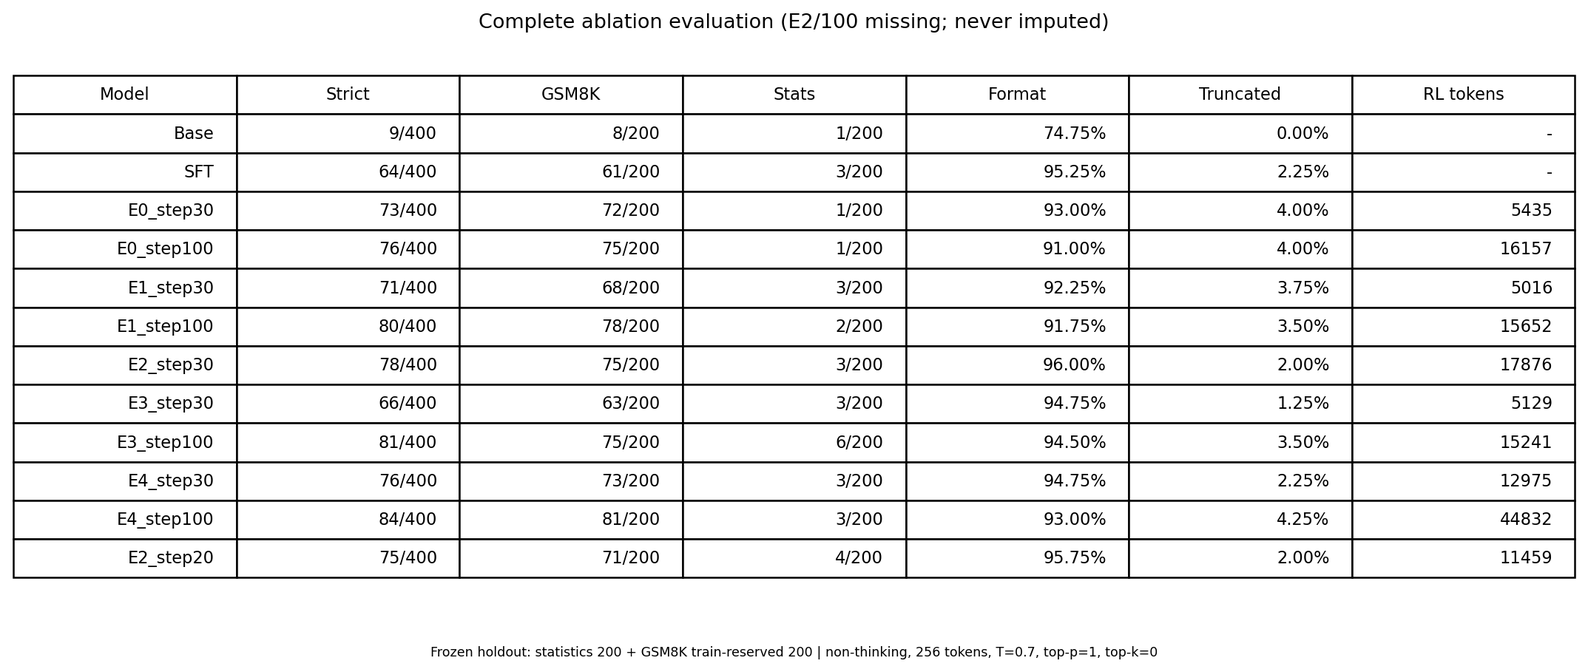
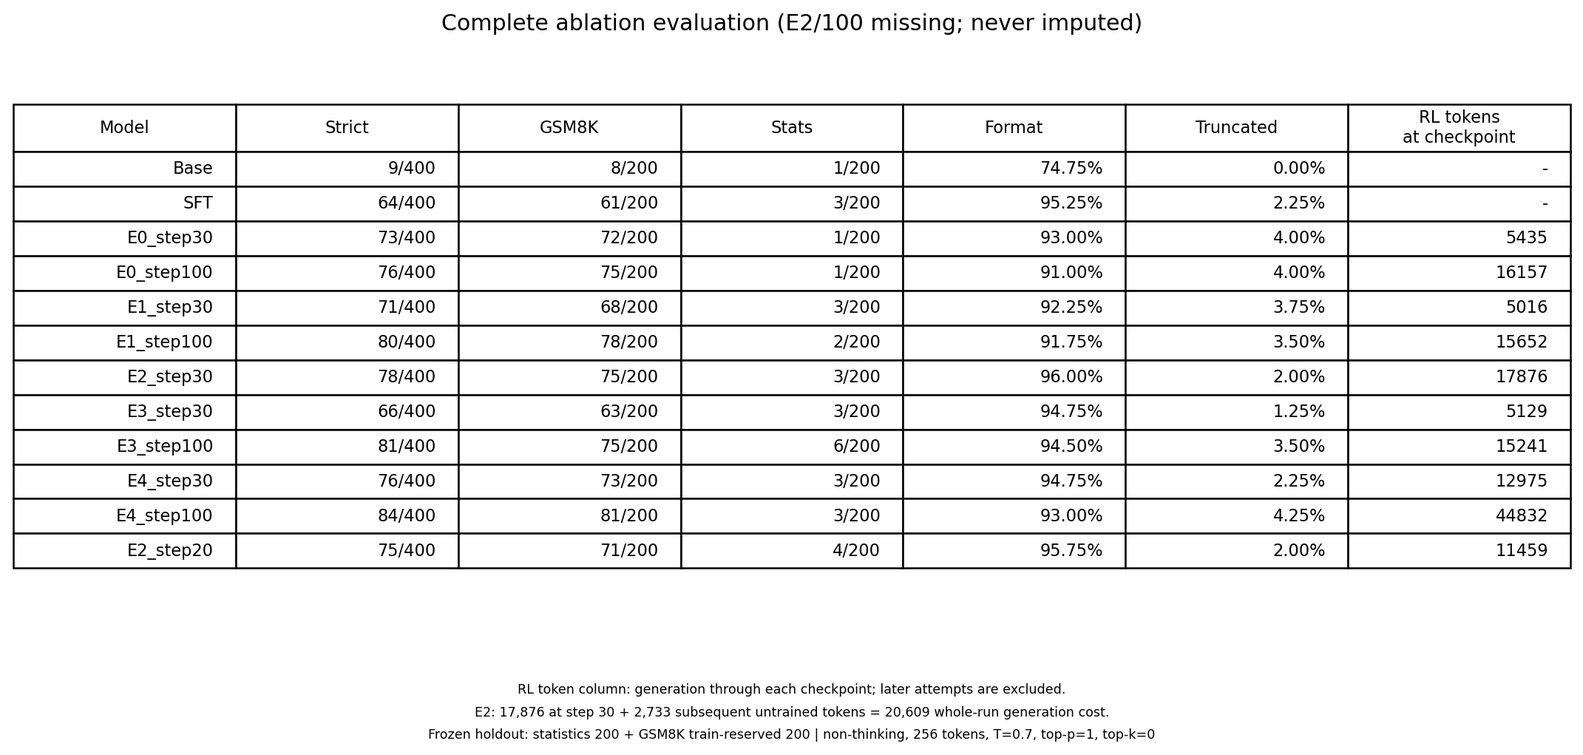
Clarify experiment docs and token cost accounting

Changed region(s): [[0.0, 0.0924, 1.0, 0.8625], [0.2774, 0.8933, 0.7398, 0.9857], [0.2774, 0.0, 0.709, 0.0616]]

diff --git a/scripts/27_finalize_ablation_report.py b/scripts/27_finalize_ablation_report.py
@@ -49,6 +49,50 @@ def model_table(result):
     return rows
 
 
+def make_summary_figure(result, destination):
+    """Render saved results with explicit checkpoint-versus-whole-run token cost."""
+    import matplotlib
+    matplotlib.use('Agg')
+    import matplotlib.pyplot as plt
+
+    destination.mkdir(parents=True, exist_ok=True)
+    fig, ax = plt.subplots(figsize=(12, 5.7))
+    ax.axis('off')
+    content = []
+    for name in result['models']:
+        metric = result['metrics'][name]
+        content.append([
+            name, str(metric['strict_correct_count']) + '/400',
+            str(metric['by_source']['openai/gsm8k']['strict_correct_count']) + '/200',
+            str(metric['by_source']['statreason_synthetic']['strict_correct_count']) + '/200',
+            percentage(metric['format_valid_rate']), percentage(metric['truncation_rate']),
+            str(result['models'][name].get('training_generated_tokens', '-')),
+        ])
+    table = ax.table(cellText=content,
+                     colLabels=['Model', 'Strict', 'GSM8K', 'Stats', 'Format', 'Truncated',
+                                'RL tokens\nat checkpoint'], loc='center')
+    table.auto_set_font_size(False)
+    table.set_fontsize(9)
+    table.scale(1, 1.55)
+    for column in range(7):
+        table[0, column].set_height(table[0, column].get_height() * 1.35)
+    ax.set_title('Complete ablation evaluation (E2/100 missing; never imputed)')
+    checkpoint_tokens = result['models']['E2_step30']['training_generated_tokens']
+    whole_run_tokens = result['training']['rows']['E2']['total_generated_tokens']
+    tail_tokens = whole_run_tokens - checkpoint_tokens
+    fig.text(.5, .075, 'RL token column: generation through each checkpoint; later attempts are excluded.',
+             ha='center', fontsize=7)
+    fig.text(.5, .045,
+             f'E2: {checkpoint_tokens:,} at step 30 + {tail_tokens:,} subsequent untrained tokens '
+             f'= {whole_run_tokens:,} whole-run generation cost.', ha='center', fontsize=7)
+    fig.text(.5, .015, EVAL_NOTE, ha='center', fontsize=7)
+    fig.tight_layout(rect=[0, .13, 1, 1])
+    path = destination / '09_ablation_summary.png'
+    fig.savefig(path, dpi=180, bbox_inches='tight')
+    plt.close(fig)
+    return path
+
+
 def make_figures(result, destination):
     import matplotlib
     matplotlib.use('Agg')
@@ -161,18 +205,7 @@ def make_figures(result, destination):
         ax.grid(axis='y', alpha=.2)
     save(fig, '08_generation_cost.png')
 
-    fig, ax = plt.subplots(figsize=(12, 5))
-    ax.axis('off')
-    content = []
-    for name in names:
-        p = result['metrics'][name]
-        content.append([name, str(p['strict_correct_count'])+'/400', str(p['by_source']['openai/gsm8k']['strict_correct_count'])+'/200',
-                        str(p['by_source']['statreason_synthetic']['strict_correct_count'])+'/200', percentage(p['format_valid_rate']),
-                        percentage(p['truncation_rate']), str(result['models'][name].get('training_generated_tokens', '-'))])
-    table = ax.table(cellText=content, colLabels=['Model', 'Strict', 'GSM8K', 'Stats', 'Format', 'Truncated', 'RL tokens'], loc='center')
-    table.auto_set_font_size(False); table.set_fontsize(9); table.scale(1, 1.55)
-    ax.set_title('Complete ablation evaluation (E2/100 missing; never imputed)')
-    save(fig, '09_ablation_summary.png', EVAL_NOTE)
+    files.append(make_summary_figure(result, destination))
 
     fig, grid = plt.subplots(2, 2, figsize=(10, 7))
     axes = grid.reshape(-1)
@@ -218,7 +251,7 @@ def write_report(root, result, charts):
          'mcnemar_p': c['mcnemar_exact_two_sided_p'], 'mcnemar_holm_p': c['mcnemar_holm_adjusted_p']}
         for key, c in comparisons.items()])
     lines = ['# StatReason-RL：GRPO/DAPO受控机制实验报告', '',
-             '最终路线：B级机制分析型（预算受限适配）。在真实训练、统一判题与完整结果校验通过后形成结论；不宣称复现论文规模或证明DAPO显著优于GRPO。', '',
+             '本文报告预算受限条件下的GRPO/DAPO受控机制实验。结论基于真实训练、统一判题和完整结果校验，不宣称复现论文规模或证明DAPO显著优于GRPO。', '',
              '## 模型、数据与方法', '',
              'Qwen3-0.6B，BF16/SDPA，RTX 5060 Laptop 8GB。LoRA r=8、alpha=16，q/k/v/o四类投影，共224个可训练张量、2,293,760参数。共用同一个SFT适配器（SFT运行300步，验证loss选择150步），RL池400题：GSM300、统计100。', '',
              '基于TRL 0.23.1集成Rollout、裁剪与损失，项目实现奖励、独立SFT参考、在线补采、长度整形、数学审计和统计分析；不是从零手写整个Trainer。每组独立初始化，G=4、旧概率复用2次、LR=1e-5、beta=0.04、种子42。E0显式loss_type=grpo；E1上裁剪0.28；E2在线筛选；E3 token损失；E4四机制组合。E4保留共同KL，区别于论文去KL的完整配方。', '',
@@ -250,16 +283,18 @@ def write_report(root, result, charts):
               '## 正确性与错误案例', '',
               f"重新严格判题全部{result['prediction_count']}条评测回答，与保存结果一致；200道统计标准答案独立计算通过，最大绝对误差{result['gold_audit']['max_absolute_recompute_error']:.3g}。这不代表所有GSM答案都经独立人工证明。", '',
               '代表性错误包括：指标变量方差没有正确代入p(1-p)；相关样本均值标准误遗漏或错算协方差；将条件独立误当成无条件独立的贝叶斯题。对应原文保存在error_cases.jsonl。高格式有效率与极低统计正确率同时出现，说明本轮领域推理缺陷没有解决；不会通过放宽容差、删除难题或继续使用测试集调参修饰结果。', '',
-              '## 图表', '']
+              '## 图表', '',
+              f"汇总图09的RL Token列以及ablation_summary.csv的training_generated_tokens_at_checkpoint列均统计截至各检查点的累计生成量；成本图08与上文总成本表统计完整运行。E2第30步检查点为{result['models']['E2_step30']['training_generated_tokens']:,} Token，停止前额外补采{tr['E2']['total_generated_tokens']-result['models']['E2_step30']['training_generated_tokens']:,} Token未进入新更新，完整运行合计{tr['E2']['total_generated_tokens']:,} Token。", '']
     for path in charts:
         lines += [f'![{path.stem}](figures/{path.name})', '']
     lines += ['图中直接显示原始更新序列，没有挑选有利区间；奖励每两次更新共用一组样本。准确率图从0开始，显示完整0–100%范围和Wilson区间。E2曲线在30步结束，不延长或补造至100步。', '',
-              '## 复现与交付', '', '```powershell',
+              '## 复现与公开产物', '',
+              '公开仓库提供代码、配置、依赖、测试、报告、CSV、结果JSON、图表和少量错误样例。完整原始回答、训练审计、冻结计划、处理后数据及模型/适配器检查点保存在本地，未随仓库分发。阅读公开结果无需模型；以下命令仅适用于已具备完整本地实验产物的环境。重新审计不能仅依赖结果JSON，具体前置条件见[运行指南](../../docs/training_guide.md)。', '', '```powershell',
               '.venv\\Scripts\\python.exe scripts/24_run_ablations.py --status',
               '.venv\\Scripts\\python.exe scripts/26_evaluate_ablations.py --execute',
               '.venv\\Scripts\\python.exe scripts/27_finalize_ablation_report.py', '```', '',
-              '原始数据、配置、检查点哈希、代码快照、逐题回答、采样成本与资源记录保留。报告、CSV、PNG和校验清单来自这些记录。没有使用付费GPU，没有推送GitHub。简历优先采用机制分析版本，见docs/resume_materials.md；架构、公式与20个面试问题见docs/interview_guide.md。', '',
-              '本轮停止扩展训练，完成预算受限B级机制分析；后续可在新增独立开发/测试数据与额外预算下研究多种子、更强数学底座、严格等Token更新和独立长度消融。当前测试集不得再用作模型选择。']
+              '报告、CSV、PNG和本地校验清单均由保存的真实运行记录生成。公共结果表与完整运行的计算成本分别注明统计口径，未对失败样本或提前停止运行作删除或补造。', '',
+              '本轮结论限定为预算受限的机制分析。后续可在新增独立开发/测试数据与额外预算下研究多种子、更强数学底座、严格等Token更新和独立长度消融。当前测试集不得再用作模型选择。']
     (out / 'final_report.md').write_text('\n'.join(lines) + '\n', encoding='utf-8')
 
 

diff --git a/docs/grpo_explained.md b/docs/grpo_explained.md
@@ -2,6 +2,8 @@
 
 本项目在已有 Qwen3-0.6B 的 SFT LoRA 上继续强化学习，不是从零训练模型。实际后端为固定 TRL 0.23.1、Transformers 4.57.1、PEFT 0.17.1；`AuditedGRPOTrainer`保留TRL策略损失，同时增加参考策略、概率、奖励和恢复审计。
 
+正式E0–E4已完成共430次参数更新；共同RL池为400题。本文保留历史4步冒烟、24步训练的具体排错证据，并与正式实验配置区分。正式比较、统计区间与成本见[最终报告](../reports/ablation_round1/final_report.md)。
+
 ## 建议阅读顺序
 
 | 文件/函数 | 阅读目标 |
@@ -20,11 +22,11 @@
 
 ## 题目与rollout
 
-每道题的prompt只包含系统提示和题面，标准答案留给奖励函数。通过`apply_chat_template(..., enable_thinking=False)`预先生成纯文本prompt；TRL不会再次给它套一层对话模板。长度超过1024 Token的完整记录整体排除，不通过左截断保留半道题。当前完整4400条RL池均符合长度上限，最长311 Token。
+每道题的prompt只包含系统提示和题面，标准答案留给奖励函数。通过`apply_chat_template(..., enable_thinking=False)`预先生成纯文本prompt；TRL不会再次给它套一层对话模板。长度超过1024 Token的完整记录整体排除，不通过左截断保留半道题。历史完整4400条RL池均符合长度上限，最长311 Token；正式五组固定其中按来源配比选出的400题，未按最终评测正确率筛选。
 
 同题生成G=4个回答。二元奖励为：完整结束、最终答案格式正确且数值通过原有容差，奖励1；否则0。生成长度上限128 Token，截断样本严格奖励0。`mask_truncated_completions=False`表示它们仍进入损失；这是独立于奖励处理的开关。
 
-TRL按第一个EOS构造completion mask，包含EOS、排除后续padding。当前训练EOS为Tokenizer的`im_end`；固定开发评测沿用已有的统一停止配置与192 Token上限，全部模型相同。
+TRL按第一个EOS构造completion mask，包含EOS、排除后续padding。训练EOS为Tokenizer的`im_end`。历史开发评测上限为192 Token；正式12检查点统一评测为Non-thinking、256 Token、temperature=0.7、top_p=1、top_k=0、batch=4，与训练128 Token上限分别记录。
 
 ## 组内优势
 
@@ -44,7 +46,7 @@ $$\bar R=\frac1G\sum_i R_i,\quad s_R=\sqrt{\frac{\sum_i(R_i-\bar R)^2}{G-1}},\qu
 | 旧策略 | rollout生成时的概率，用作比率分母 | 缓冲为脱离梯度的张量，固定两轮 |
 | 参考策略 | 限制偏离共同SFT | 独立冻结SFT模型，整个run不更新 |
 
-这里的概率目标沿用TRL 0.23.1语义，使用温度缩放后的**密集**分布：$\pi_T(\cdot|h)=\operatorname{softmax}(z_\theta(h)/T)$，$T=0.7$。采样另施加top-k=20和top-p=0.8，所以实际采样分布与目标密集分布有区别。本项目没有声称对过滤采样做了精确重要性修正。
+概率目标沿用TRL 0.23.1语义，使用温度缩放后的**密集**分布：$\pi_T(\cdot|h)=\operatorname{softmax}(z_\theta(h)/T)$，$T=0.7$。正式E0–E4使用top_k=0、top_p=1，不施加这两项词表过滤，使采样与目标概率采用相同的温度分布。历史24步实验使用top_k=20、top_p=0.8，存在过滤采样与密集目标分布的区别，未做精确重要性修正；其结果单独保留，不混入正式消融。
 
 重要性比率为$r_{i,t}=\exp(u_{\theta,i,t}-u_{\mathrm{old},i,t})$。当前、旧、参考的密集logprob都用同一温度和FP32概率计算。每行旧logprob的有效Token哈希随rollout保存，并在每次训练时核对，避免第二轮把分母替换成当前概率。
 
@@ -88,16 +90,16 @@ $$L=\frac1G\sum_{i=1}^G\frac{\sum_t m_{i,t}\ell_{i,t}}{\max(1,\sum_t m_{i,t})}.$
 
 运行目录保留完整配置、依赖、数据与SFT指纹、TRL源码哈希、rollout、policy审计、训练指标、adapter与优化器检查点。新建run保存关键训练源码快照。声明的数据指纹与实际记录不一致时拒绝训练，不静默修改冻结配置。
 
-`max_steps`和`save_steps`必须是`num_iterations`的整数倍；本地每4步保存一次，检查点都落在完整rollout复用周期边界。中间周期的buffer不作为可恢复状态。
+`max_steps`和`save_steps`必须是`num_iterations`的整数倍；历史24步实验每4步保存，正式五组每10步保存，均落在完整rollout复用周期边界。中间周期的buffer不作为可恢复状态。
 
 已经从完整24步实验的第20步检查点，在独立目录实际补跑到24步：额外生成529 Token；Token、奖励、优势、旧/参考概率相同；224个最终LoRA张量逐位相等、最大差0。结论只适用于本机、固定依赖与完整周期边界，不推广为跨硬件按位一致。
 
 恢复严格检查代码、配置、依赖、数据和SFT哈希。已保存run绑定其训练时源码；若当前代码继续开发，应从匹配源码版本恢复，或先用当前代码建立新run再验证，不能绕过身份检查。
 
-## 本地结果与阅读材料
+## 历史开发结果与正式对照
 
 24步实验：12题、48回答、3777生成Token，平均奖励0.6042，8/12组零方差；真正改变目标的裁剪约3/7554 Token曝光。固定100题中SFT与GRPO均19/100，各有3题独对；差值Bootstrap95%区间[-5,+5]个百分点。没有观察到可确证的能力提升或熵坍塌。
 
-数据和图见`reports/grpo/report.md`、`results.json`、`sample_rollout.json`、`changed_correctness_cases.json`与`resume_verification.json`。当前还没有DAPO正式对照结果。
+上述历史原始材料保留在本地`reports/grpo/`，不随公开仓库分发。正式E0–E4已运行并采用同一400题评测：E0、E1、E3、E4各100步，E2因补采上限停在30步。五组共同30步比较与四个100步终点分别报告，结果见[最终报告](../reports/ablation_round1/final_report.md)和[汇总表](../reports/ablation_round1/ablation_summary.csv)。
 
 官方参考：[TRL 0.23.1 GRPO文档](https://huggingface.co/docs/trl/v0.23.1/en/grpo_trainer)、[对应Trainer源码](https://github.com/huggingface/trl/blob/v0.23.1/trl/trainer/grpo_trainer.py)、[生成解包工具源码](https://github.com/huggingface/trl/blob/v0.23.1/trl/models/utils.py)、[DeepSeekMath论文](https://arxiv.org/abs/2402.03300)。本项目以已安装源码和实际运行结果验收API。

diff --git a/docs/architecture.md b/docs/architecture.md
@@ -1,5 +1,7 @@
 # 架构与代码阅读顺序
 
+正式实验已完成E0–E4五组独立运行：四组各100步，E2在30步达到补采上限，共430次RL参数更新。统一评测覆盖12个检查点、同一400题。当前结论以[最终报告](../reports/ablation_round1/final_report.md)为准；早期8题冒烟和100题开发实验单独保留。
+
 ## 当前真实调用
 
 环境：`scripts/01_check_env.py` → `environment.py` → CUDA/BF16/SDPA/AdamW 小张量检查、包/API 审计 → `artifacts.py` 写入运行记录。
@@ -17,13 +19,13 @@
 | src/utils | 已实现配置继承、严格 JSON、SHA256、run_id、环境检查 |
 | src/data/statistics.py | 已实现七题型、28 个正式模板族和确定性答案 |
 | src/data/quality.py | 已实现独立复算和训练样本抽查材料 |
-| src/data/gsm8k.py | 已实现 train 文件获取、答案解析和题组隔离；在线获取受限 |
+| src/data/gsm8k.py | 已实现固定版本的官方train获取、答案解析、来源指纹与题组隔离 |
 | src/data/schema.py | 已实现字段、去重、划分和模板族校验 |
 | src/data/storage.py | 已实现 JSONL、内容指纹、逐文件哈希和版本保护 |
 | src/rewards/numeric.py | 已实现严格标量 completion 判题与独立诊断字段 |
 | src/models | 已实现固定快照、统一提示、加载生成、LoRA和独立冻结SFT参考 |
-| src/training | 已实现SFT掩码、GRPO旧策略缓冲/冻结参考/概率审计与真实更新；DAPO待下一阶段 |
-| src/evaluation | 已实现统一验证、Wilson、配对Bootstrap/McNemar、逐题保存恢复及真实训练图表 |
+| src/training | 已实现SFT掩码、GRPO概率与参数审计，集成Clip-Higher、在线补采、Token损失与超长奖励；五组均完成真实参数更新 |
+| src/evaluation | 已实现冻结评测、逐题保存恢复、Wilson、配对Bootstrap/McNemar/Holm及11张实验图表 |
 
 建议阅读顺序：`configs/data.yaml` → `scripts/03_prepare_data.py` → `statistics.py` → `quality.py` → `schema.py` → `storage.py` → `numeric.py` → 两个数据/判题测试文件。公式与判题细节见 `docs/data_and_verifier.md`。
 
@@ -31,8 +33,10 @@
 
 当前模型调用：`04_evaluate_base.py` → `runner.run_cli()` → `panel.select_development_panel()` → `snapshot.resolve_snapshot()` → `inference.load_qwen()` → `generate_completion()` → `extract_completion()` → `numeric.verify_completion()` → JSONL/CSV 与 `metrics.summarize_predictions()`。
 
-模型代码导读见 `docs/model_and_evaluation.md`。真实目标模型已完成 Base/SFT 开发评测；随机微型模型功能测试仍独立保存，不作为能力结果。
+模型代码导读见[模型与评测](model_and_evaluation.md)。真实目标模型已完成Base、SFT及RL检查点的统一评测；随机微型模型功能测试独立保存，不作为能力结果。
 
 SFT 调用：`05_train_sft.py` → `sft.run_sft_cli()` → `sft_data.prepare_sft_data()`/`encode_sft_record()` → `lora.attach_lora()` → Transformers Trainer → `LocalTrainingCallback` → 参数更新证据、adapter 保存与重载校验。SFT 生成评测由 `06_evaluate_sft.py` 复用相同开发题组入口，先校验 adapter 与 Base 版本的绑定。数学与标签细节见 `docs/lora_sft_explained.md`。
 
 GRPO调用：`07_train_grpo.py` → `grpo.run_grpo_cli()` → `rl_data.prepare_rl_data()` → 两个独立SFT实例 → `AuditedGRPOTrainer` → `_generate_and_score_completions()` → 固定旧/参考概率和组内优势 → TRL损失/独立数学核对 → 梯度累积与LoRA更新 → adapter重载。`14_analyze_grpo.py`分析真实训练与统一评测，`15_verify_grpo_resume.py`在周期边界验证续训。详见`docs/grpo_explained.md`。
+
+DAPO适配在`src/training/dapo_mechanisms.py`及Trainer接入层执行。`24_run_ablations.py`管理批量训练入口，`25_analyze_ablation_training.py`审计训练并准备比较计划，`26_evaluate_ablations.py`执行冻结评测，`27_finalize_ablation_report.py`审计原始产物并生成报告。公开仓库提供代码和结果汇总；完整原始运行目录与检查点保留本地，复算前置条件见[运行指南](training_guide.md)。

diff --git a/docs/training_guide.md b/docs/training_guide.md
@@ -6,6 +6,18 @@
 
 已完成300步SFT，以及E0–E4五组独立RL运行，共430次RL参数更新；224个LoRA张量更新、检查点重载和Vanilla/E4短程恢复均有实测证据。统一评测完成12个检查点×400题，并生成最终报告和11张图。后文4步闭环、24步GRPO及192 Token评测均为历史开发实验。
 
+## 公开仓库与本地产物
+
+公开仓库包含训练/分析代码、配置、依赖、测试、最终报告、统计CSV、结果JSON、11张图及少量错误样例。完整处理后数据、逐题预测、训练日志、冻结计划、模型权重和检查点保存在本地，不随仓库分发。
+
+| 操作 | 前置条件 |
+|---|---|
+| 阅读最终报告、CSV和图表 | 克隆仓库即可，不需要GPU或模型 |
+| 重判全部回答、重建统计和图表 | 需要完整本地实验产物；不能仅凭公开结果JSON冒充重新审计 |
+| 在新机器重新训练 | 安装依赖，准备数据与模型，生成SFT，并绑定该SFT的真实路径和哈希；建立独立实验版本 |
+
+`27_finalize_ablation_report.py`会读取`outputs/ablation_evaluation_round1/`中的冻结计划、评测回答与资源记录、`outputs/runs/`中的原始训练审计、适配器检查点、处理后数据以及本地报告状态文件。其审计入口核对源文件和权重指纹；只克隆公开仓库无法直接重建原实验报告。改变模型、数据或源码后应生成新身份，不得修改历史哈希绕过校验。
+
 ## 已完成实验：查看结果
 
 当前结果以[最终报告](../reports/ablation_round1/final_report.md)和[验收记录](../reports/ablation_round1/acceptance.json)为准。无需重新训练或重新评测即可阅读；下列状态命令不启动GPU任务。
@@ -14,6 +26,8 @@
 .\.venv\Scripts\python.exe scripts\24_run_ablations.py --status
 .\.venv\Scripts\python.exe scripts\26_evaluate_ablations.py --status
 ```
+
+这些状态命令查询已有本地运行记录；新克隆的副本没有历史运行目录，不会因此获得原实验状态。
 
 E0、E1、E3、E4各完成100步；E2在30步达到补采上限而停止，保留其真实结果。所有组共同30步作一次比较，可用100步终点另列。正式评测使用同一400题、Non-thinking、256 Token、temperature=0.7、top_p=1、top_k=0、batch=4、每题一次采样。GSM部分来自官方train预留划分，不是官方test成绩。
 

diff --git a/README.md b/README.md
@@ -58,11 +58,15 @@ E4接受训练的有效组比例100%，E0为38%，但总生成Token为44,832与1
 ![GSM留出准确率](reports/ablation_round1/figures/06_gsm8k_accuracy.png)
 ![配对区间](reports/ablation_round1/figures/11_paired_intervals.png)
 
-完整12检查点表、训练与成本曲线、Wilson区间、配对Bootstrap、McNemar与Holm校正见[实验报告](reports/ablation_round1/final_report.md)。原始回答位于outputs/ablation_evaluation_round1，训练日志与代码快照位于outputs/runs。
+完整12检查点表、训练与成本曲线、Wilson区间、配对Bootstrap、McNemar与Holm校正见[实验报告](reports/ablation_round1/final_report.md)。完整原始回答保存在本地outputs/ablation_evaluation_round1，训练日志与代码快照保存在本地outputs/runs，未随公开仓库分发。
+
+成本口径：汇总图与CSV的检查点Token列只累计至对应检查点；完整运行成本还包含后续尝试。E2第30步为17,876 Token，加上停止前未进入新更新的2,733 Token补采，合计20,609 Token。
 
 ## 复现
 
 环境：Windows、Python 3.13、PyTorch 2.8.0+cu128、Transformers 4.57.1、TRL 0.23.1、PEFT 0.17.1、Accelerate 1.10.1。依赖锁文件为requirements.lock.windows-py313-cu128.txt；安装与基础训练见docs/training_guide.md。模型权重和虚拟环境不提交。
+
+**产物范围：** 公开仓库提供代码、配置、报告、CSV、结果JSON、图表和少量错误样例。完整处理后数据、评测JSONL、冻结计划、训练日志与模型/适配器检查点保留本地。克隆仓库即可阅读结果；执行完整审计、重新评测或重建报告，需要先准备对应原始产物，不能仅凭公开结果JSON重建审计证据。以下命令面向原实验的完整本地环境；新机器准备步骤见[运行指南](docs/training_guide.md)。
 
 ```powershell
 .venv\Scripts\python.exe scripts/07_train_grpo.py --config configs/ablations/E0_100.yaml

diff --git a/docs/lora_sft_explained.md b/docs/lora_sft_explained.md
@@ -4,7 +4,7 @@
 
 `scripts/05_train_sft.py` 调用 `src/training/sft.py:run_sft_cli()`。函数从固定 Qwen 快照加载 Tokenizer，处理并审计标签，加载 BF16 Base，注入 LoRA，交给 Transformers Trainer 进行真实反传和优化器更新，最后保存 adapter 并在重新加载的 Base 上核对权重和 logits。
 
-本阶段使用 Transformers Trainer 和 PEFT，未依赖 TRL SFTTrainer 的自动对话掩码。这样可以直接检查本项目究竟训练了哪些 Token。后续 GRPO 仍按计划使用经过核对的 TRL 接口。
+SFT使用Transformers Trainer和PEFT，自行构造并审计助手标签掩码。GRPO/DAPO已基于TRL 0.23.1完成集成与五组真实训练；两种阶段分别使用监督交叉熵与强化学习目标。
 
 ## LoRA 如何改变模型
 
@@ -95,7 +95,7 @@ RL 数据和官方测试集不会被 SFT 入口读取。训练数据与编码标
 
 尖括号为待替换路径。恢复使用完整 Trainer 检查点，包含 optimizer、scheduler、TrainerState 和 RNG；仅加载 adapter 是权重续训，不等价于严格恢复。
 
-生成评测与 Base 使用相同题目、提示、采样参数、192 Token 上限和单题 seed。SFT 后回答变长可能提高截断率；数值正确、格式有效和截断分别报告，不通过放宽判题补偿。
+早期开发入口使用192 Token上限及单题seed，只用于历史开发比较。最终统一评测由`scripts/26_evaluate_ablations.py`执行：Base、SFT与RL检查点使用同一400题、Non-thinking、256 Token、temperature=0.7、top_p=1、top_k=0、batch=4，每题一次采样。数值正确、格式有效与截断分别报告，不通过放宽判题补偿。详见[最终报告](../reports/ablation_round1/final_report.md)。
 
 ## 推荐代码阅读顺序
 
